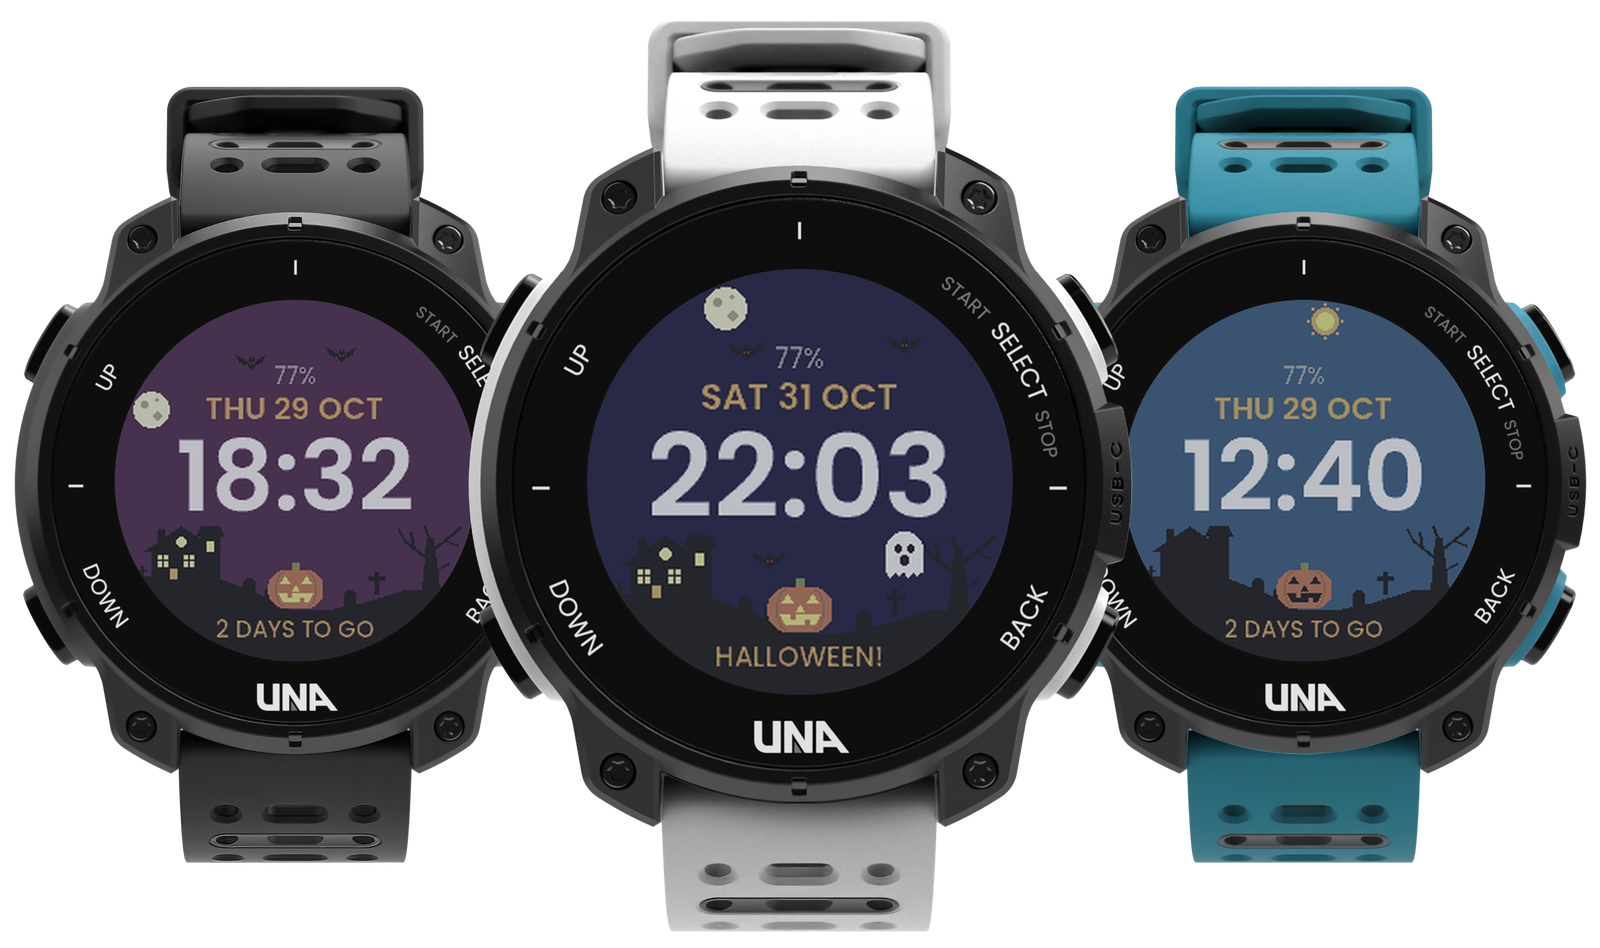
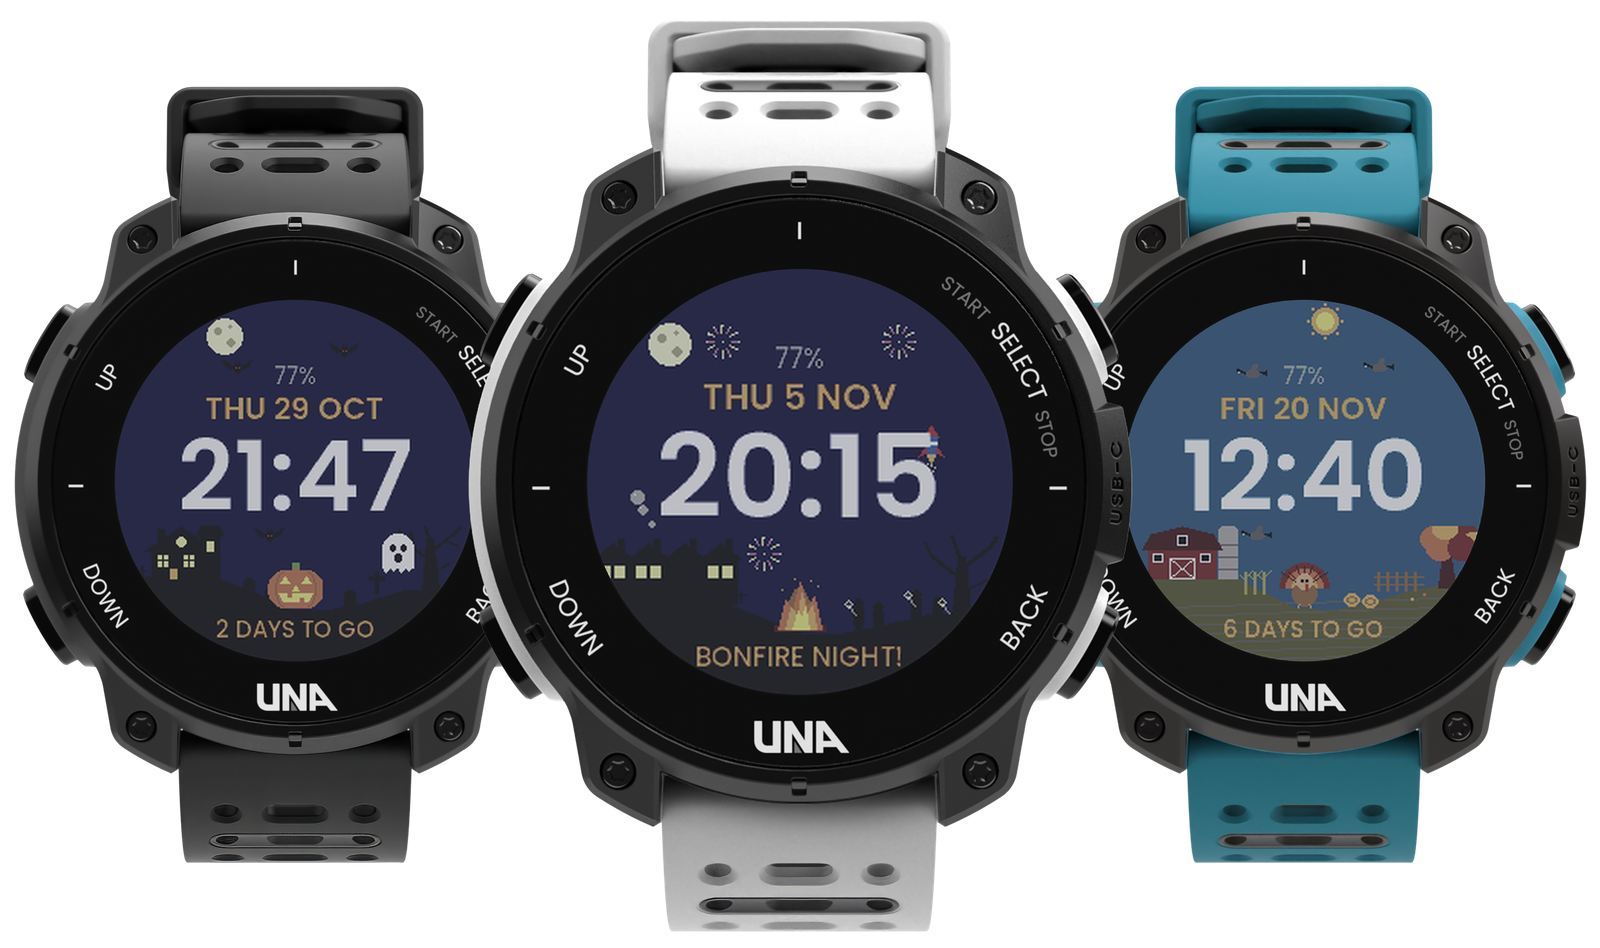
Theme (Halloween!) Face 1.1.0: Bonfire Night and Thanksgiving, settings, new screens

diff --git a/HalloweenFace/README.md b/HalloweenFace/README.md
@@ -2,68 +2,90 @@
 
 # Theme (Halloween!) Face by RF
 
-**A haunted hill under a sky that follows your day.**
+**A watch face that follows the seasons.**
 
-A Halloween watch face for the [UNA Watch](https://unawatch.com): the scene changes from morning to
-night, and in October it counts down to Halloween.
+A watch face for the [UNA Watch](https://unawatch.com): a pixel-art scene for the next holiday, under a
+sky that follows your day. It counts down to the holiday, and a few days after it the next one takes
+over by itself.
 
-<img src="images/hero_3_watches.png" alt="The Halloween face on three UNA watches: dusk, Halloween night, day" width="800">
+<img src="images/hero_3_watches.png" alt="The face on three UNA watches: Halloween night, Bonfire Night, Thanksgiving day" width="800">
 
 </div>
 
 ## Demo
 
-<img src="images/demo.gif" alt="The face through the day: day, dusk, night" width="240">
+<img src="images/demo.gif" alt="Halloween night, then Bonfire Night, then a Thanksgiving day" width="240">
 
-The face through a day: the bats and the ghost fly to a new spot every minute.
+Halloween night, Bonfire Night, then a Thanksgiving day: every minute the scene comes alive for a
+few seconds.
 
 ## Why
 
-A watch face is the screen you see most, so it's a good place for a little seasonal fun. This one
-looks like a pixel-art Halloween scene but still reads like a normal face: big time, the date and the
-battery level. It only moves for 2 seconds each minute, so it's light on the battery.
+The watch face is the screen you see most, so it's a good place for a little seasonal fun. This one
+looks like a pixel-art holiday scene but still reads like a normal face: big time, the date, and two
+lines you choose. And you never have to change it: it moves on to the next holiday by itself.
 
 ## What it does
 
-- **A sky that follows your day.** In the morning the sun rises over a quiet house and a carved
-  pumpkin. At dusk the sky turns purple, the windows light up, the jack-o'-lantern glows and the
-  bats come out. At night the moon crosses the sky and a ghost haunts the dead tree.
-- **A little motion.** Every minute the bats and the ghost fly to a new spot, then stay still.
+- **Three holidays so far:**
+  - **Halloween** (October 31): a haunted hill. At dusk the windows light up, the jack-o'-lantern
+    glows and the bats come out; at night a ghost haunts the dead tree.
+  - **Bonfire Night** (November 5, UK): a park by a terrace of houses, smoke rising from a chimney.
+    After dark the bonfire is lit, sparklers glow, fireworks burst over the rooftops and rockets
+    shoot up.
+  - **Thanksgiving** (US, 4th Thursday of November): a farm in autumn colours, geese flying over by
+    day, the barn lit after dark and an owl on the fence at night.
+- **Changes theme by itself.** Each theme counts down to its day ("6 DAYS TO GO", then
+  "BONFIRE NIGHT!"), and 5 days later the next one appears as a surprise. When two holidays are
+  closer than that, it switches halfway between them.
+- **A sky that follows your day:** blue by day, a coloured dusk, navy at night, lavender at dawn.
+  The sun and the moon cross the sky along the edge of the screen.
+- **A little motion:** every minute, and when the face comes back on screen, the bats, geese or
+  fireworks fly for 2 seconds, then the scene stays still.
 - **On the face:** the time, large, in your watch's 12 or 24 hour format; the date, in your watch's
-  day and month order; the battery level (red below 20%).
-- **In October,** a countdown to Halloween ("2 DAYS TO GO"), and "HALLOWEEN!" on the 31st.
-- **Easy on the battery:** it reads no heart rate or other sensors.
-
-Set it in **Settings > Watch Face > Halloween**.
+  day and month order; two info lines.
+- **Settings in the UNA app** (More → Store → My Apps → Theme (Halloween!) Face by RF → CONFIGURE APP):
+  - **Theme:** automatic, or keep one theme all year.
+  - **Top line, bottom line:** battery (red below 20%), steps, active minutes, heart rate, or the
+    countdown. Battery and countdown by default.
+- **Easy on the battery:** it only turns on the sensors your two lines show, and only moves for a
+  few seconds each minute.
 
 ## Screens
 
-| Night | Halloween | Dusk |
+| Halloween night | Halloween day | Bonfire Night, by day |
 |:---:|:---:|:---:|
-| <img src="images/1_night.png" width="220"> | <img src="images/2_halloween.png" width="220"> | <img src="images/3_dusk.png" width="220"> |
-| 8 pm to 5 am: moon, bats and a ghost | On the 31st it says "HALLOWEEN!" | 5 to 8 pm: purple sky, lit windows |
+| <img src="images/1_halloween_night.png" width="220"> | <img src="images/2_halloween_day.png" width="220"> | <img src="images/3_bonfire_day.png" width="220"> |
+| Moon, bats, a ghost by the tree | Sun over a quiet house | Smoke rising from a chimney |
 
-| Day | Dawn | November |
+| Bonfire Night | Thanksgiving day | Thanksgiving night |
 |:---:|:---:|:---:|
-| <img src="images/4_day.png" width="220"> | <img src="images/5_dawn.png" width="220"> | <img src="images/6_november.png" width="220"> |
-| 7 am to 5 pm: blue sky, unlit house | 5 to 7 am: a lavender sky | After Halloween the countdown hides |
+| <img src="images/4_bonfire_night.png" width="220"> | <img src="images/5_thanksgiving_day.png" width="220"> | <img src="images/6_thanksgiving_night.png" width="220"> |
+| Fireworks, a rocket, the bonfire lit | Geese over the farm, the countdown | Heart rate on the top line, an owl |
 
 **Buttons:** none. A watch face has no buttons of its own; the watch's buttons work as usual.
 
 ## How it works
 
-The scene is picked from the hour: day, dusk, night or dawn. The sun and moon move along an arc near
-the edge of the screen. Each minute, the face picks new spots for the bats and the ghost from the
-time and flies them there for 2 seconds; the rest of the time nothing redraws except the clock.
-The face's background service only listens for the battery level. All the art is pixel art drawn
-in the watch's own colours, so it looks the same on the watch as in these pictures.
+The theme comes from the date: the face finds the next holiday, and keeps the last one on for 5 days
+after it. The scene comes from the hour: day 7 am to 5 pm, dusk to 8 pm, night to 5 am, then dawn.
+The bats, geese and fireworks land on new spots each minute, picked from the time, so the face needs
+no memory and nothing runs between flights.
 
-Tested on a real UNA Watch (version 1.0.0).
+The face's background service reads only what your two lines show: battery, steps, active minutes,
+or heart rate. Heart rate keeps the sensor on, so choose it only if you want it. Your settings come
+from the UNA app and are read again every 5 minutes.
+
+All the art is pixel art drawn in the watch's own 64 colours, so it looks the same on the watch as
+in these pictures.
+
+**Tested:** version 1.0.0 (Halloween) on a real UNA Watch. Version 1.1.0 (Bonfire Night,
+Thanksgiving, settings) in the simulator, with each holiday's dates, every time of day and every
+info line; steps and active minutes can only be checked on the watch.
 
 ## Coming next
 
-- **Monthly themes:** a new scene for each season's holiday, starting with November and December.
-  Each one counts down to its day, then the next one takes over.
+- **A theme for each season:** Christmas next, then one more each month through the year.
 
 ## Feedback
 

diff --git a/README.md b/README.md
@@ -22,10 +22,10 @@ show what's already reported, so check there first and add a 👍 to the ones yo
 |---|---|
 | [**AutoRep by RF**](AutoRep/) | A Sets / EMOM / AMRAP / Tabata timer that counts your reps automatically from wrist motion (baseline set on your first 3 reps), with heart rate and tempo. Coming in 1.1: plan workouts on your phone with the [**workout builder**](https://rounoff.github.io/una-apps/AutoRep/builder/). |
 | [**PomoTimer by RF**](PomoTimer/) | A Pomodoro focus timer: timed focus sessions and breaks, a buzz at every change, a long break after each set, and it keeps running when you leave the app. |
-| [**Theme (Halloween!) Face by RF**](HalloweenFace/) | A Halloween watch face: a haunted hill under a sky that follows your day, with lit windows, a glowing jack-o'-lantern, bats and a ghost after dark, and a countdown to Halloween in October. |
+| [**Theme (Halloween!) Face by RF**](HalloweenFace/) | A watch face that follows the seasons: a pixel-art scene for the next holiday (Halloween, Bonfire Night, Thanksgiving so far) under a sky that follows your day, with a countdown, and the next theme taking over by itself. Info lines set in the UNA app. |
 
 <a href="AutoRep/"><img src="AutoRep/images/hero_3_watches.png" alt="AutoRep on three UNA watches" width="600"></a>
 
 <a href="PomoTimer/"><img src="PomoTimer/images/hero_3_watches.png" alt="PomoTimer on three UNA watches" width="600"></a>
 
-<a href="HalloweenFace/"><img src="HalloweenFace/images/hero_3_watches.png" alt="The Halloween face on three UNA watches" width="600"></a>
+<a href="HalloweenFace/"><img src="HalloweenFace/images/hero_3_watches.png" alt="The theme face on three UNA watches" width="600"></a>

diff --git a/AGENTS.md b/AGENTS.md
@@ -61,7 +61,7 @@ real-world accuracy the app hasn't shown on a real wrist.
 |---|---|---|---|
 | AutoRep by RF | `~/STM32Cube/unawatch-autorep` | `AD5202A23D2FEE00` | v0.9.7; page updated 2026-10-24 (round store previews, watch-look mockups, 6 screens, "Coming next": workout plans); video and phone-app screenshot to add |
 | PomoTimer by RF | `~/STM32Cube/unawatch-pomodoro` | `EBD6F3D4E1035F74` | v0.4.1 on the store; page added 2026-10-27 (hero + 6 screens, from the 0.4.1 simulator frames); video to add |
-| Theme (Halloween!) Face by RF | `~/STM32Cube/unawatch-halloweenface` | `9A25EE3448337D5D` | Watch face; v1.0.0 on the store 2026-10-29 (tested on the watch); page added 2026-10-29 (hero + 6 screens from the store previews, demo GIF, watch look); monthly themes planned for 1.1 |
+| Theme (Halloween!) Face by RF | `~/STM32Cube/unawatch-halloweenface` | `9A25EE3448337D5D` | Watch face; v1.0.0 on the store 2026-10-29 (tested on the watch); v1.1.0 (Bonfire Night, Thanksgiving, auto themes, phone settings) packaged 2026-10-29, simulator-tested; page updated 2026-10-29 for 1.1.0 (hero + 6 screens + demo GIF from the 1.1.0 store previews, watch look); RF's 2nd competition entry |
 
 ## Feedback hub
 
